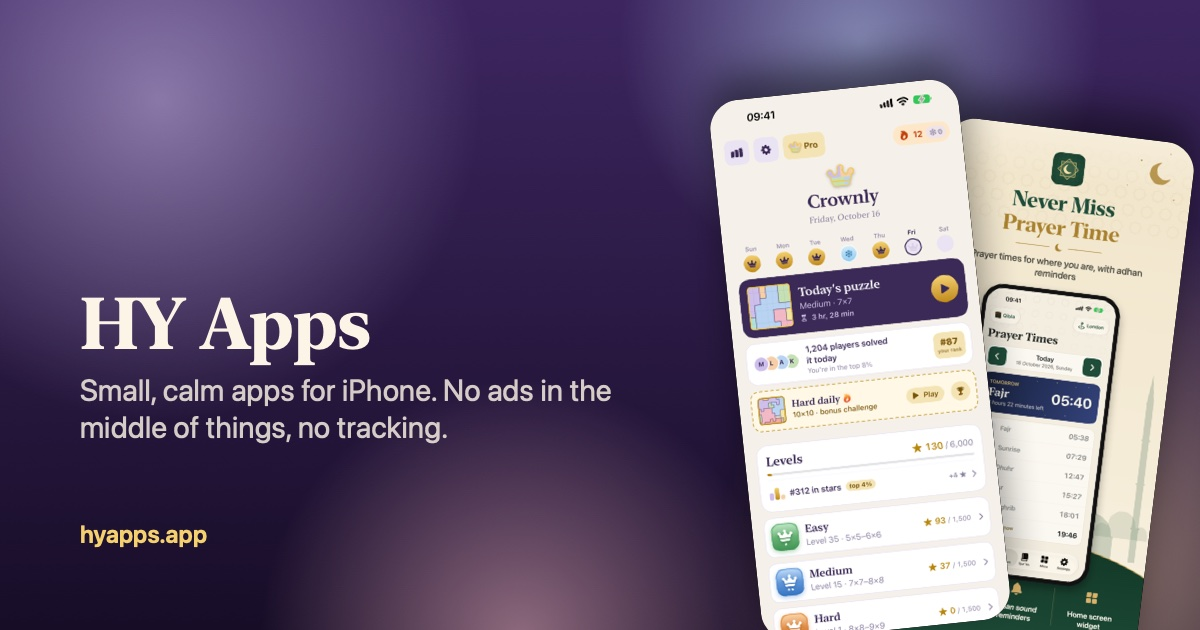
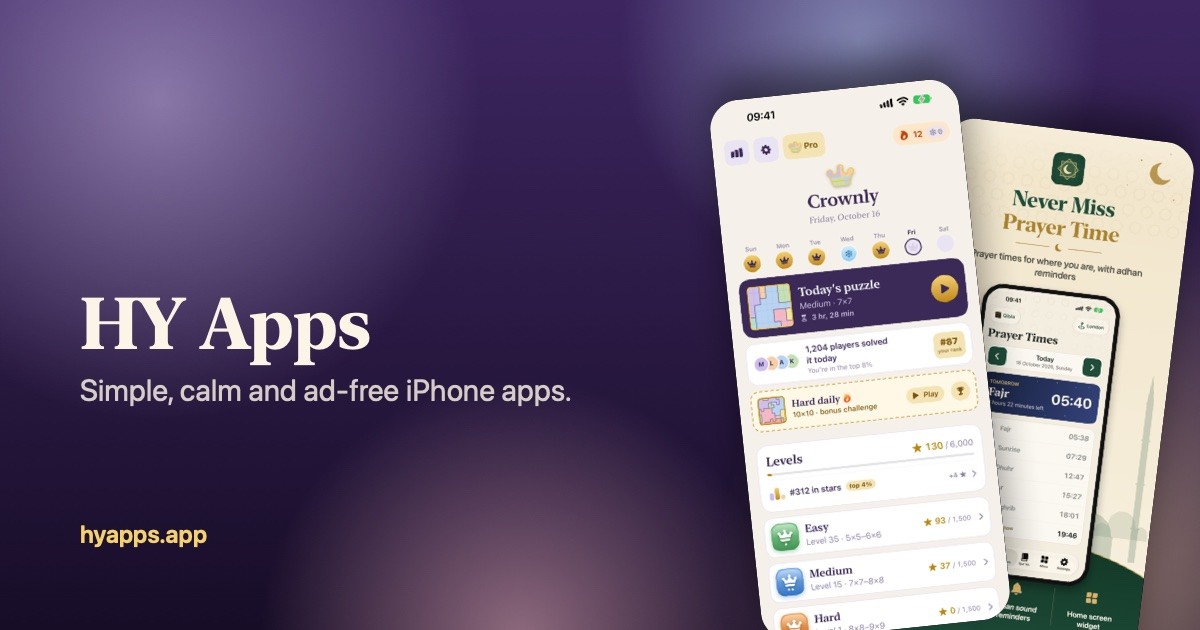
Studio EN headline: Simple, calm and ad-free apps

Changed region(s): [[0.0617, 0.6032, 0.5242, 0.7238]]

diff --git a/index.html b/index.html
@@ -3,7 +3,7 @@
 <head>
   <meta charset="utf-8">
   <meta name="viewport" content="width=device-width, initial-scale=1">
-  <title>HY Apps · Small, calm apps for iPhone</title>
+  <title>HY Apps · Simple, calm, ad-free iPhone apps</title>
   <meta name="description" content="HY Apps is an independent studio making small, calm and fair apps and games for iPhone: Crownly, a daily logic puzzle, and Bismillah (Besmele), daily verses and prayer times.">
   <meta name="theme-color" content="#24163a">
   <link rel="canonical" href="https://hyapps.app/">
@@ -11,15 +11,15 @@
   <link rel="alternate" hreflang="tr" href="https://hyapps.app/tr/">
   <link rel="alternate" hreflang="x-default" href="https://hyapps.app/">
   <meta property="og:type" content="website">
-  <meta property="og:title" content="HY Apps · Small, calm apps for iPhone">
-  <meta property="og:description" content="Small, calm apps for iPhone. No ads in the middle of things, no tracking.">
+  <meta property="og:title" content="HY Apps · Simple, calm, ad-free iPhone apps">
+  <meta property="og:description" content="Simple, calm and ad-free iPhone apps.">
   <meta property="og:url" content="https://hyapps.app/">
   <meta property="og:image" content="https://hyapps.app/assets/og/studio-en.jpg">
   <meta property="og:image:width" content="1200">
   <meta property="og:image:height" content="630">
   <meta name="twitter:card" content="summary_large_image">
-  <meta name="twitter:title" content="HY Apps · Small, calm apps for iPhone">
-  <meta name="twitter:description" content="Small, calm apps for iPhone. No ads in the middle of things, no tracking.">
+  <meta name="twitter:title" content="HY Apps · Simple, calm, ad-free iPhone apps">
+  <meta name="twitter:description" content="Simple, calm and ad-free iPhone apps.">
   <link rel="icon" href="/assets/favicon.png">
   <link rel="apple-touch-icon" href="/assets/apple-touch-icon.png">
   <link rel="stylesheet" href="/assets/site.css">
@@ -33,7 +33,7 @@
   <span class="lang"><a href="/" class="on" aria-current="page" lang="en">EN</a><a href="/tr/" lang="tr" hreflang="tr">TR</a></span>
   <div class="blobs" aria-hidden="true"><i></i><i></i><i></i></div>
   <p class="mark">HY Apps</p>
-  <h1>Small, calm apps that <em>respect your time.</em></h1>
+  <h1>Simple, calm and <em>ad-free apps.</em></h1>
   <p>An independent studio making apps and games for iPhone. No ads in the middle of things, no tracking, everything explained in plain words.</p>
 </section>
 
